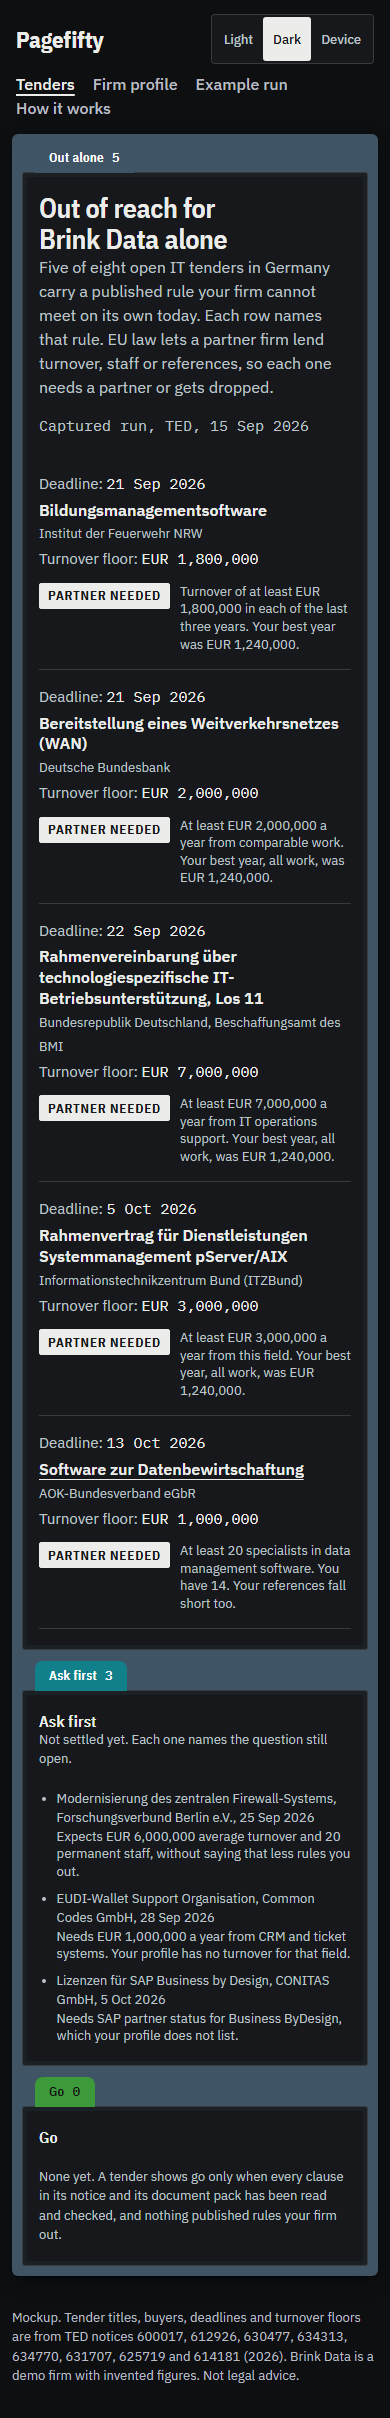
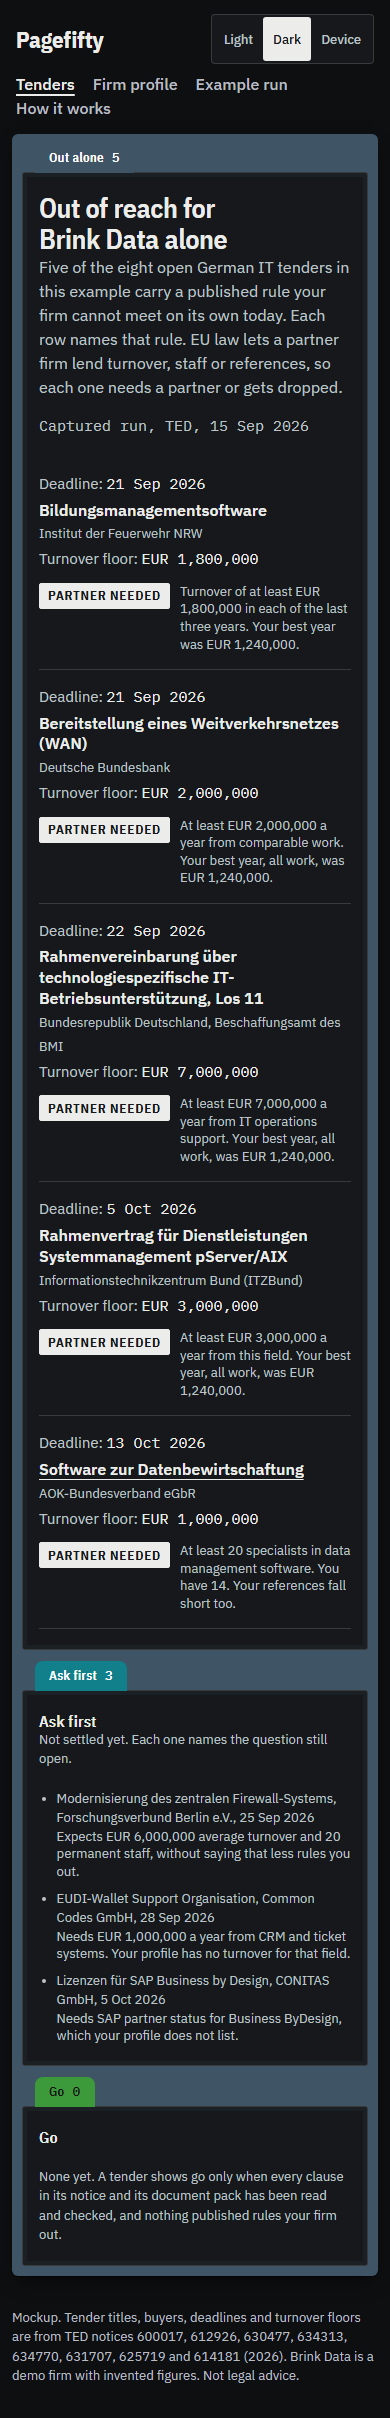
fix(design): scope the tenders count to the example it shows
"Five of eight open IT tenders in Germany" read as a count of every
open German IT tender, while the 15 Sep capture held 350 open notices
and the page lists eight picked from them. The line now says the eight
are this example's. The four tenders mockups are recaptured in a fresh
browser profile; the other sixteen reproduce byte for byte.

ritual step p6

Changed region(s): [[0.0923, 0.0931, 0.8615, 0.1861]]

diff --git a/design/tenders.html b/design/tenders.html
@@ -52,9 +52,9 @@
 					<div>
 						<h1 class="title" id="index-title">Out of reach for Brink Data alone</h1>
 						<p>
-							Five of eight open IT tenders in Germany carry a published rule your firm cannot meet
-							on its own today. Each row names that rule. EU law lets a partner firm lend turnover,
-							staff or references, so each one needs a partner or gets dropped.
+							Five of the eight open German IT tenders in this example carry a published rule your
+							firm cannot meet on its own today. Each row names that rule. EU law lets a partner
+							firm lend turnover, staff or references, so each one needs a partner or gets dropped.
 						</p>
 					</div>
 					<p class="mono">Captured run, TED, 15 Sep 2026</p>
